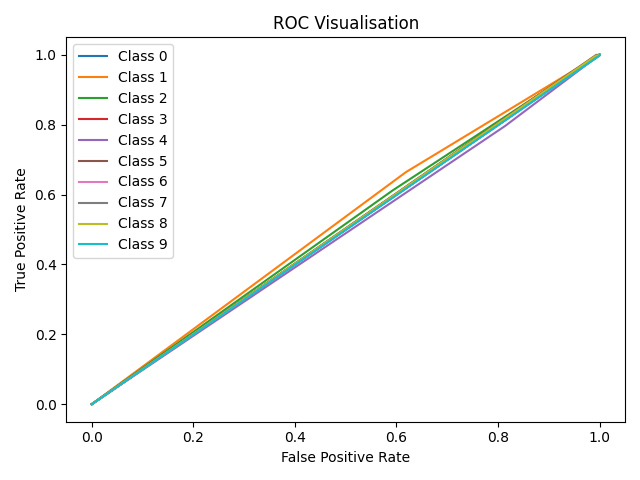
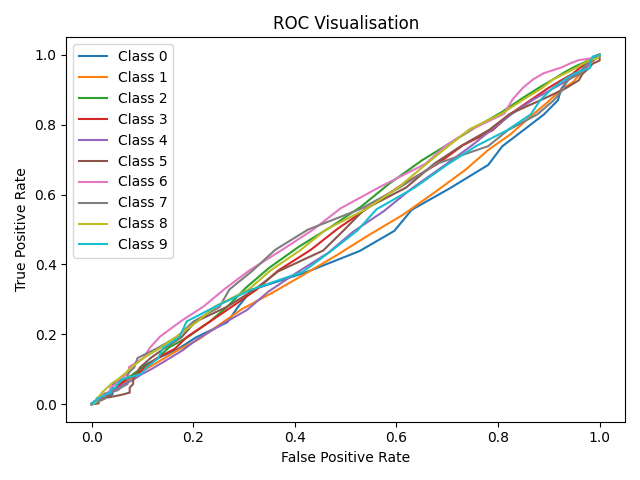
fix ROC

Changed region(s): [[0.125, 0.0938, 0.9375, 0.8438]]

diff --git a/Metrics.py b/Metrics.py
@@ -17,18 +17,18 @@ def get_ROC_AREA(prediction, fileType):
     # loop through all 10 files
     for i in range(0, 10):
         # convert prediction into a boolean list
-        bin_pred = (prediction == i)
+        #bin_pred = (prediction == i)
         # invert the list so that it matches the provided files
-        bin_pred = [not value for value in bin_pred]
+        # = [not value for value in bin_pred]
         # only access when 4000/9000 instance data is being used.
         if fileType != "4000" and fileType != "9000":
             auc_arr.append(metrics.roc_auc_score(pd.read_csv("../" + fileType + "ing_data/y_" + fileType + "_smpl_" +
-                                                             str(i) + ".csv"), bin_pred))
+                                                             str(i) + ".csv"), prediction))
         else:
 
             # generate Area under curve using the file and binary predictions.
             auc_arr.append(metrics.roc_auc_score(pd.read_csv("../" + fileType + "_data/y_test_smpl_" +
-                                                             str(i) + ".csv_" + fileType + ".csv"), bin_pred))
+                                                             str(i) + ".csv_" + fileType + ".csv"), prediction))
     # return dataframe with roc results.
     return pd.DataFrame(data=auc_arr, columns=["ROC Area"])
 
@@ -50,15 +50,11 @@ def get_TPR_FPR(prediction, fileType, visualise):
     rates = list()
     # Loop for all 10 files.
     for i in range(0, 10):
-        # convert prediction into a boolean list
-        bin_pred = (prediction == i)
-        # invert the list so that it matches the provided files
-        bin_pred = [not value for value in bin_pred]
         # only access when 4000/9000 instance data is being used.
         if fileType != "4000" and fileType != "9000":
             fpr, tpr, thresholds = metrics.roc_curve(
                 pd.read_csv("../" + fileType + "ing_data/y_" + fileType + "_smpl_" +
-                            str(i) + ".csv"), bin_pred)
+                            str(i) + ".csv"), prediction)
 
             # append mean rates to rate array
             rates.append([np.mean(tpr), np.mean(fpr)])
@@ -67,7 +63,7 @@ def get_TPR_FPR(prediction, fileType, visualise):
 
             # generate tpr, fpr using the test file and the binary prediction list
             fpr, tpr, thresholds = metrics.roc_curve(pd.read_csv("../" + fileType + "_data/y_test_smpl_" +
-                                                                 str(i) + ".csv_" + fileType + ".csv"), bin_pred)
+                                                                 str(i) + ".csv_" + fileType + ".csv"), prediction)
 
             rates.append([np.mean(tpr), np.mean(fpr)])
 
@@ -81,9 +77,6 @@ def get_TPR_FPR(prediction, fileType, visualise):
 
     # Return Dataframe contain average tpr and fpr
     return pd.DataFrame(data=rates, columns=["Average tpr", "Average fpr"])
-
-
-
 
 
 # Question 3
@@ -106,6 +99,8 @@ def classifier_tester(classifier, testType, train_data, train_labels, testData, 
 
     # predicts the labels from the test data given
     pred = classifier.predict(testData)
+    # gets probabilities for the classes
+    probs = classifier.predict_proba(testData)
     print("Starting Confusion Matrix ....")
     # plots confusion matrix between testingLabels and the predicted labels
     print("\nConfusion Matrix\n", metrics.confusion_matrix(testLabels, pred))
@@ -113,8 +108,8 @@ def classifier_tester(classifier, testType, train_data, train_labels, testData, 
     print("\n", metrics.classification_report(testLabels, pred))
 
     # get tpr, fpr and ROC area using the predicted labels
-    print("\n", get_TPR_FPR(pred, fileType=testType, visualise=visualise))
-    print("\n", get_ROC_AREA(pred, fileType=testType))
+    print("\n", get_TPR_FPR(probs[:,1], fileType=testType, visualise=visualise))
+    print("\n", get_ROC_AREA(probs[:,1], fileType=testType))
 
     # Get Accuracy
     accuracy = metrics.accuracy_score(testLabels, pred)

diff --git a/Decision_Trees/TFunctions.py b/Decision_Trees/TFunctions.py
@@ -4,6 +4,7 @@ from sklearn.model_selection import cross_val_score, cross_val_predict
 from sklearn import metrics
 import numpy as np
 import Metrics as mt
+import pandas as pd
 
 
 # visualise tree using tree.plot_tree
@@ -26,12 +27,12 @@ def visualiseTree(tree, save):
 # Inputs : mean_std - this is a boolean param when True will print the mean and std of cross validation
 # Outputs : Confusion matrix of cross validation, Precision, Recall, F1-Measure, ROC Curves, ROC Area and Accuracy
 # Outputs : ROC Curves if visualise is True
-def crossValidation(tree, data, labels, visualise, mean_std):
+def crossValidation(classifier, data, labels, visualise, mean_std):
     print("Cross Validation started ....")
-
+    auc_arr = []
     if mean_std:
         print("Starting CV ....")
-        cross = cross_val_score(tree, data, labels, scoring="neg_mean_squared_error", cv=10)
+        cross = cross_val_score(classifier, data, labels, scoring="neg_mean_squared_error", cv=10)
         tree_scores = np.sqrt(-cross)
         print("Finished CV ")
 
@@ -39,16 +40,34 @@ def crossValidation(tree, data, labels, visualise, mean_std):
         print("\n### Mean Score : " + str(tree_scores.mean()) + " ###")
         print("### STD Score " + str(tree_scores.std()) + " ###\n")
 
+    # Predict classes for confusion matrix
     print("Start confusion matrix ....")
-    prediction = cross_val_predict(tree, data, labels, cv=10)
+    prediction = cross_val_predict(classifier, data, labels, cv=10)
     print("Confusion Matrix:\n", metrics.confusion_matrix(labels, prediction))
 
     # get precision, recall and f1 measure
     print("\n", metrics.classification_report(labels, prediction))
+    # loops through each of the classes
+    for i in range(0,10):
+        # gets cross val probability of the class
+        file = np.ravel(pd.read_csv("../training_data/y_train_smpl_"+str(i)+".csv"))
+        print("ROC class: ", i)
+        # get ROC values and TPR, FPR for ROC curve
+        probs = cross_val_predict(classifier, data, file, method="predict_proba", cv=10)
+        fpr, tpr, thresholds = metrics.roc_curve(file, probs[:,1])
+        auc_arr.append(metrics.roc_auc_score(file, probs[:,1]))
+
+        if visualise:
+            plt.plot(fpr, tpr, label="Class " + str(i))
+
+    plt.title("ROC Visualisation")
+    plt.xlabel("False Positive Rate")
+    plt.ylabel("True Positive Rate")
+    plt.legend()
+    plt.show()
 
     # get tpr, fpr and ROC area using the predicted labels
-    print("\n", mt.get_TPR_FPR(prediction, "train", visualise))
-    print("\n", mt.get_ROC_AREA(prediction, "train"))
+    print(pd.DataFrame(data=auc_arr, columns=["ROC Area"]))
 
     # Get accuracy of the cross validation
     accuracy = metrics.accuracy_score(labels, prediction)

diff --git a/mlp/main.py b/mlp/main.py
@@ -5,6 +5,7 @@ from sklearn import metrics
 import numpy as np
 import pandas as pd
 import Metrics as mt
+import matplotlib.pyplot as plt
 
 # total training data
 data = pd.read_csv("../training_data/x_train_gr_smpl.csv")
@@ -27,10 +28,22 @@ print(confusion_matrix)
 
 # get precision, recall and f1 measure
 print("\n", metrics.classification_report(labels, label_predictions))
+auc_arr = []
+for i in range(0, 10):
+    # gets cross val probability of the class
+    file = np.ravel(pd.read_csv("../training_data/y_train_smpl_" + str(i) + ".csv"))
+    print("ROC class: ", i)
+    # get ROC values and TPR, FPR for ROC curve
+    probs = cross_val_predict(clf, data, file, method="predict_proba", cv=10)
+    fpr, tpr, thresholds = metrics.roc_curve(file, probs[:, 1])
+    auc_arr.append(metrics.roc_auc_score(file, probs[:, 1]))
+    plt.plot(fpr, tpr, label="Class " + str(i))
 
-# get tpr, fpr and ROC area
-print("\n", mt.get_TPR_FPR(label_predictions, "train", visualise=True))
-print("\n", mt.get_ROC_AREA(label_predictions, "train"))
+plt.title("ROC Visualisation")
+plt.xlabel("False Positive Rate")
+plt.ylabel("True Positive Rate")
+plt.legend()
+plt.show()
 
 # Get accuracy of the cross validation
 accuracy = accuracy_score(labels, label_predictions)
@@ -40,7 +53,7 @@ print("\nAccuracy: " + str(accuracy))
 # Question 3
 # Run and get the results of the testing data used on the classifier
 print("\nTesting using dataset testing data ....\n")
-mt.classifier_tester(clf, "test", data, labels, testingData, testingLabels, visualise=False)
+mt.classifier_tester(clf, "test", data, labels, testingData, testingLabels, visualise=True)
 
 # Question 4
 # Run and get the results of the newly created 4000 instance moved test and training dataset
@@ -52,7 +65,7 @@ test_4000 = pd.read_csv("../4000_data/x_test_gr_smpl.csv_4000.csv")
 test_labels_4000 = pd.read_csv("../4000_data/y_test_smpl.csv_4000.csv")
 train_labels_4000 = np.ravel(train_labels_4000)
 mt.classifier_tester(clf, "4000", train_4000, train_labels_4000, test_4000,
-                     test_labels_4000, visualise=False)
+                     test_labels_4000, visualise=True)
 
 # Question 5
 # Run and get the results of the newly created 9000 instance moved test and training dataset
@@ -64,7 +77,7 @@ test_9000 = pd.read_csv("../9000_data/x_test_gr_smpl.csv_9000.csv")
 test_labels_9000 = pd.read_csv("../9000_data/y_test_smpl.csv_9000.csv")
 train_labels_9000 = np.ravel(train_labels_9000)
 mt.classifier_tester(clf, "9000", train_9000, train_labels_9000, test_9000,
-                     test_labels_9000, visualise=False)
+                     test_labels_9000, visualise=True)
 
 
 

diff --git a/linear_classifier/main.py b/linear_classifier/main.py
@@ -8,6 +8,7 @@ from sklearn.pipeline import make_pipeline
 from sklearn.metrics import accuracy_score
 import Metrics as mt
 from sklearn import metrics
+import matplotlib.pyplot as plt
 
 
 # total training data
@@ -31,9 +32,22 @@ print(confusion_matrix)
 # get precision, recall and f1 measure
 print("\n", metrics.classification_report(labels, label_predictions))
 
-# get tpr, fpr and ROC area
-print("\n", mt.get_TPR_FPR(label_predictions, "train", visualise=True))
-print("\n", mt.get_ROC_AREA(label_predictions, "train"))
+auc_arr = []
+for i in range(0, 10):
+    # gets cross val probability of the class
+    file = np.ravel(pd.read_csv("../training_data/y_train_smpl_" + str(i) + ".csv"))
+    print("ROC class: ", i)
+    # get ROC values and TPR, FPR for ROC curve
+    probs = cross_val_predict(linear_classifier, data, file, method="predict_proba", cv=10)
+    fpr, tpr, thresholds = metrics.roc_curve(file, probs[:, 1])
+    auc_arr.append(metrics.roc_auc_score(file, probs[:, 1]))
+    plt.plot(fpr, tpr, label="Class " + str(i))
+
+plt.title("ROC Visualisation")
+plt.xlabel("False Positive Rate")
+plt.ylabel("True Positive Rate")
+plt.legend()
+plt.show()
 
 # Get accuracy of the cross validation
 accuracy = accuracy_score(labels, label_predictions)

diff --git a/Decision_Trees/main.py b/Decision_Trees/main.py
@@ -17,7 +17,7 @@ testingLabels = pd.read_csv("../testing_data/y_test_smpl.csv")
 DT = sk.DecisionTreeClassifier(max_depth=None, random_state=42)
 # run J48 decision tree
 print("\nRunning J48 ....\n")
-J48_DT.runJ48(DT, vis_tree=False, visualise=False, mean_std=False, data=data, labels=labels,
+J48_DT.runJ48(DT, crossVal=False, vis_tree=False, visualise=True, mean_std=False, data=data, labels=labels,
               testingData=testingData, testingLabels=testingLabels, save=False)
 
 # =================================== Random Forrest ====================================
@@ -25,6 +25,6 @@ rf_model = RandomForestClassifier(max_depth=None, random_state=42)
 # run RF tree
 print("\nRunning Random Forrest Classifier ....\n")
 labels = np.ravel(labels)
-RF_DT.runRF(rf_model, vis_tree=False, visualise=True, mean_std=False, data=data, labels=labels,
+RF_DT.runRF(rf_model, crossVal=False, vis_tree=False, visualise=True, mean_std=False, data=data, labels=labels,
             testingData=testingData, testingLabels=testingLabels, save=False)
 

diff --git a/Decision_Trees/J48_DT.py b/Decision_Trees/J48_DT.py
@@ -4,10 +4,11 @@ import Decision_Trees.TFunctions as tf
 
 
 # Method run the classifier using cross validation and using the testing data supplied and created
-def runJ48(DT, vis_tree, visualise, mean_std, data, labels, testingData, testingLabels, save):
+def runJ48(DT, crossVal, vis_tree, visualise, mean_std, data, labels, testingData, testingLabels, save):
     # Question 1
     # Run and get the results of the cross validation used on the classifier
-    tf.crossValidation(tree=DT, data=data, labels=labels, visualise=visualise, mean_std=mean_std)
+    if crossVal:
+        tf.crossValidation(DT, data=data, labels=labels, visualise=visualise, mean_std=mean_std)
 
     # Question 2
     # Visualise the tree plot

diff --git a/Decision_Trees/RF_DT.py b/Decision_Trees/RF_DT.py
@@ -5,10 +5,11 @@ import Metrics as mt
 
 
 # Method run the classifier using cross validation and using the testing data supplied and created
-def runRF(rf_model, vis_tree, visualise, mean_std, data, labels, testingData, testingLabels, save):
+def runRF(rf_model, crossVal, vis_tree, visualise, mean_std, data, labels, testingData, testingLabels, save):
     # Question 1
     # Run and get the results of the cross validation used on the classifier
-    tf.crossValidation(rf_model, data, labels, visualise=visualise, mean_std=mean_std)
+    if crossVal:
+        tf.crossValidation(rf_model, data, labels, visualise=visualise, mean_std=mean_std)
 
     # Question 2
     # Visualise the tree plot
